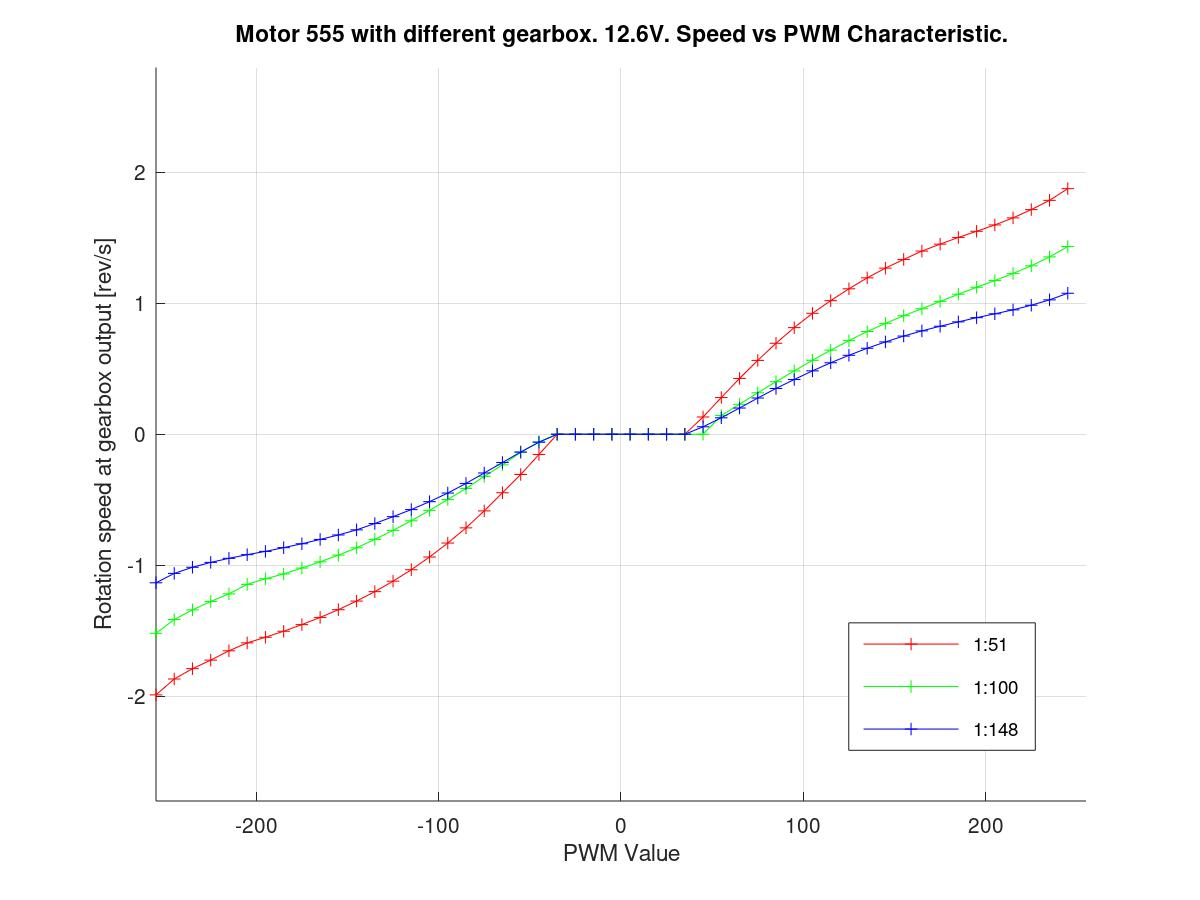
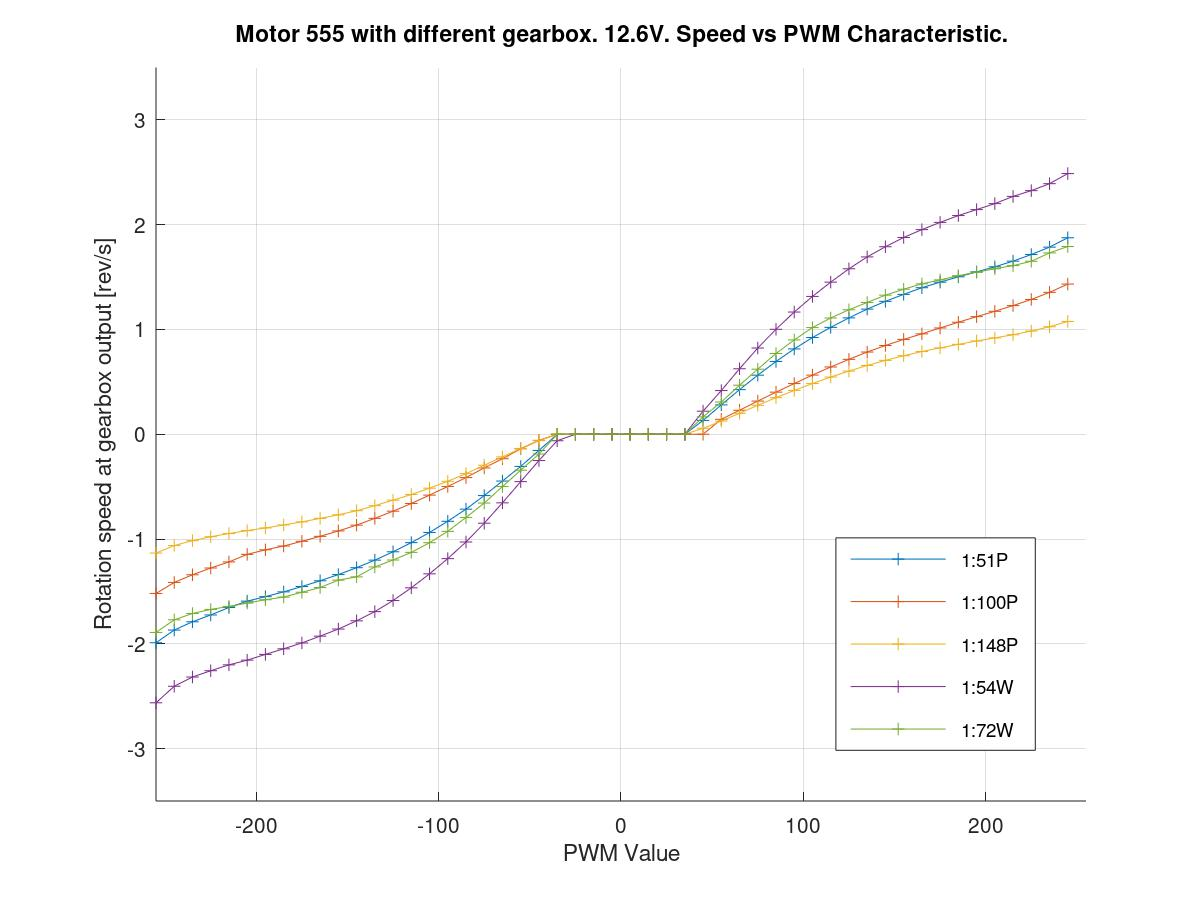
Tested the PWM Speed response of worm gearbox motors.

diff --git a/src_cpp/motor_control_test/Motor04c_PWM_Different_Motor_Speed/data/plotter_motor_gearbox.m b/src_cpp/motor_control_test/Motor04c_PWM_Different_Motor_Speed/data/plotter_motor_gearbox.m
@@ -12,24 +12,30 @@ endfunction
 results_051
 results_100
 results_139
+results_W54
+results_W72
 encoder_steps = 44;
-legend_labels = {"1:51", "1:100", "1:148"};
+legend_labels = {"1:51P", "1:100P", "1:148P", "1:54W", "1:72W"};
 
 data1 = data_pre_process (eval("result_555_051_168"), 51 * encoder_steps, true);
 data2 = data_pre_process (eval("result_555_100_168"), 100 * encoder_steps, false);
 data3 = data_pre_process (eval("result_555_139_168"), 139 * encoder_steps, false);
+data4 = data_pre_process (eval("result_555_W54_168"), 54 * encoder_steps, true);
+data5 = data_pre_process (eval("result_555_W72_168"), 72 * encoder_steps, true);
 
 f = figure(1);
 title (strcat("Motor 555 with different gearbox. 16.8V. Speed vs PWM Characteristic."));
 xlim([-255,255])
-ylim([-2.8,2.8])
+ylim([-3.5,3.5])
 xlabel ("PWM Value");
 ylabel ("Rotation speed at gearbox output [rev/s]");
 grid on;
 hold on;
-plot(data1(:,1),data1(:,3),"r+-");
-plot(data2(:,1),data2(:,3),"g+-");
-plot(data3(:,1),data3(:,3),"b+-");
+plot(data1(:,1),data1(:,3),"+-");
+plot(data2(:,1),data2(:,3),"+-");
+plot(data3(:,1),data3(:,3),"+-");
+plot(data4(:,1),data4(:,3),"+-");
+plot(data5(:,1),data5(:,3),"+-");
 legend (legend_labels, "location", "southeast");
 hold off;
 saveas(f,strcat("02_Motor_Gearbox_16V8.jpg")); 
@@ -39,18 +45,23 @@ saveas(f,strcat("02_Motor_Gearbox_16V8.jpg"));
 data1 = data_pre_process (eval("result_555_051_126"), 51 * encoder_steps, true);
 data2 = data_pre_process (eval("result_555_100_126"), 100 * encoder_steps, false);
 data3 = data_pre_process (eval("result_555_139_126"), 139 * encoder_steps, false);
+data4 = data_pre_process (eval("result_555_W54_126"), 54 * encoder_steps, true);
+data5 = data_pre_process (eval("result_555_W72_126"), 72 * encoder_steps, true);
 
 f = figure(2);
 title (strcat("Motor 555 with different gearbox. 12.6V. Speed vs PWM Characteristic."));
 xlim([-255,255])
-ylim([-2.8,2.8])
+ylim([-3.5,3.5])
 xlabel ("PWM Value");
 ylabel ("Rotation speed at gearbox output [rev/s]");
 grid on;
 hold on;
-plot(data1(:,1),data1(:,3),"r+-");
-plot(data2(:,1),data2(:,3),"g+-");
-plot(data3(:,1),data3(:,3),"b+-");
+plot(data1(:,1),data1(:,3),"+-");
+plot(data2(:,1),data2(:,3),"+-");
+plot(data3(:,1),data3(:,3),"+-");
+plot(data4(:,1),data4(:,3),"+-");
+plot(data5(:,1),data5(:,3),"+-");
+
 legend (legend_labels, "location", "southeast");
 hold off;
 saveas(f,strcat("02_Motor_Gearbox_12V6.jpg")); 

diff --git a/src_cpp/motor_control_test/Motor04c_PWM_Different_Motor_Speed/data/results_W54.m b/src_cpp/motor_control_test/Motor04c_PWM_Different_Motor_Speed/data/results_W54.m
@@ -1,0 +1,110 @@
+% result_MotorType_GearRatioVoltage
+% PWM , StepsPerSec
+
+result_555_W54_126 = [
+-255 6089.00
+-245 5714.00
+-235 5505.00
+-225 5362.00
+-215 5229.00
+-205 5122.00
+-195 4992.00
+-185 4865.00
+-175 4732.00
+-165 4578.00
+-155 4417.00
+-145 4230.00
+-135 4022.00
+-125 3770.00
+-115 3482.00
+-105 3165.00
+-95 2820.00
+-85 2443.00
+-75 2017.00
+-65 1555.00
+-55 1074.00
+-45 596.00
+-35 147.00
+-25 0.00
+-15 0.00
+-5 0.00
+5 0.00
+15 0.00
+25 0.00
+35 0.00
+45 -523.00
+55 -991.00
+65 -1485.00
+75 -1955.00
+85 -2380.00
+95 -2771.00
+105 -3125.00
+115 -3449.00
+125 -3752.00
+135 -4021.00
+145 -4252.00
+155 -4462.00
+165 -4640.00
+175 -4804.00
+185 -4959.00
+195 -5094.00
+205 -5230.00
+215 -5393.00
+225 -5524.00
+235 -5682.00
+245 -5911.00
+] % result
+
+result_555_W54_168 = [
+-255 8196.00
+-245 7756.00
+-235 7543.00
+-225 7414.00
+-215 7295.00
+-205 7184.00
+-195 7052.00
+-185 6914.00
+-175 6756.00
+-165 6582.00
+-155 6382.00
+-145 6146.00
+-135 5880.00
+-125 5614.00
+-115 5294.00
+-105 4903.00
+-95 4442.00
+-85 3900.00
+-75 3252.00
+-65 2620.00
+-55 1931.00
+-45 1209.00
+-35 496.00
+-25 0.00
+-15 0.00
+-5 0.00
+5 0.00
+15 0.00
+25 0.00
+35 -421.00
+45 -1080.00
+55 -1807.00
+65 -2496.00
+75 -3141.00
+85 -3732.00
+95 -4252.00
+105 -4738.00
+115 -5171.00
+125 -5558.00
+135 -5888.00
+145 -6226.00
+155 -6415.00
+165 -6610.00
+175 -6792.00
+185 -7000.00
+195 -7166.00
+205 -7320.00
+215 -7472.00
+225 -7592.00
+235 -7751.00
+245 -7988.00
+] % result

diff --git a/src_cpp/motor_control_test/Motor04c_PWM_Different_Motor_Speed/data/results_W72.m b/src_cpp/motor_control_test/Motor04c_PWM_Different_Motor_Speed/data/results_W72.m
@@ -1,0 +1,110 @@
+% result_MotorType_GearRatioVoltage
+% PWM , StepsPerSec
+
+result_555_W72_126 = [
+-255 5992.00
+-245 5610.00
+-235 5419.00
+-225 5297.00
+-215 5205.00
+-205 5105.00
+-195 5003.00
+-185 4923.00
+-175 4777.00
+-165 4635.00
+-155 4410.00
+-145 4312.00
+-135 4011.00
+-125 3802.00
+-115 3571.00
+-105 3279.00
+-95 2935.00
+-85 2515.00
+-75 2080.00
+-65 1581.00
+-55 1087.00
+-45 599.00
+-35 0.00
+-25 0.00
+-15 0.00
+-5 0.00
+5 0.00
+15 0.00
+25 0.00
+35 0.00
+45 -526.00
+55 -974.00
+65 -1483.00
+75 -1967.00
+85 -2442.00
+95 -2852.00
+105 -3225.00
+115 -3515.00
+125 -3763.00
+135 -3985.00
+145 -4205.00
+155 -4385.00
+165 -4547.00
+175 -4667.00
+185 -4794.00
+195 -4900.00
+205 -5003.00
+215 -5099.00
+225 -5229.00
+235 -5483.00
+245 -5676.00
+] % result
+
+result_555_W72_168 = [
+-255 7900.00
+-245 7440.00
+-235 7255.00
+-225 7167.00
+-215 7053.00
+-205 6937.00
+-195 6816.00
+-185 6681.00
+-175 6523.00
+-165 6351.00
+-155 6153.00
+-145 5955.00
+-135 5708.00
+-125 5427.00
+-115 5095.00
+-105 4696.00
+-95 4279.00
+-85 3685.00
+-75 3180.00
+-65 2522.00
+-55 1802.00
+-45 1078.00
+-35 408.00
+-25 0.00
+-15 0.00
+-5 0.00
+5 0.00
+15 0.00
+25 0.00
+35 -366.00
+45 -943.00
+55 -1616.00
+65 -2337.00
+75 -2972.00
+85 -3532.00
+95 -4050.00
+105 -4490.00
+115 -5064.00
+125 -5408.00
+135 -5706.00
+145 -5958.00
+155 -6179.00
+165 -6504.00
+175 -6675.00
+185 -6829.00
+195 -6966.00
+205 -7085.00
+215 -7205.00
+225 -7317.00
+235 -7454.00
+245 -7657.00
+] % result

diff --git a/src_cpp/motor_control_test/Motor04c_PWM_Different_Motor_Speed/data/plotter_motor_wormgearbox.m b/src_cpp/motor_control_test/Motor04c_PWM_Different_Motor_Speed/data/plotter_motor_wormgearbox.m
@@ -1,0 +1,37 @@
+clear all
+
+function retval = data_pre_process (result, gear_ratio, flip_y)
+  if(flip_y)
+    result(:,2) = result(:,2) * -1 ;
+  endif
+  result = [result , result(:,2) / gear_ratio];
+  retval = result;
+endfunction
+
+
+results_W54
+results_W72
+encoder_steps = 44;
+legend_labels = {"1:54 16.8V", "1:72 16.8V","1:54 12.6V", "1:72 12.6V"};
+
+data1 = data_pre_process (eval("result_555_W54_168"), 54 * encoder_steps, true);
+data2 = data_pre_process (eval("result_555_W72_168"), 72 * encoder_steps, true);
+data3 = data_pre_process (eval("result_555_W54_126"), 54 * encoder_steps, true);
+data4 = data_pre_process (eval("result_555_W72_126"), 72 * encoder_steps, true);
+
+f = figure(1);
+title (strcat("Motor 555 with 1:54 and 1:72 worm gearbox. Speed vs PWM Characteristic."));
+xlim([-255,255])
+ylim([-3.8,3.8])
+xlabel ("PWM Value");
+ylabel ("Rotation speed at gearbox output [rev/s]");
+grid on;
+hold on;
+plot(data1(:,1),data1(:,3),"r+-");
+plot(data2(:,1),data2(:,3),"g+-");
+plot(data3(:,1),data3(:,3),"b+-");
+plot(data4(:,1),data4(:,3),"o+-");
+legend (legend_labels, "location", "southeast");
+hold off;
+saveas(f,strcat("02_Motor_wormgearbox.jpg")); 
+
